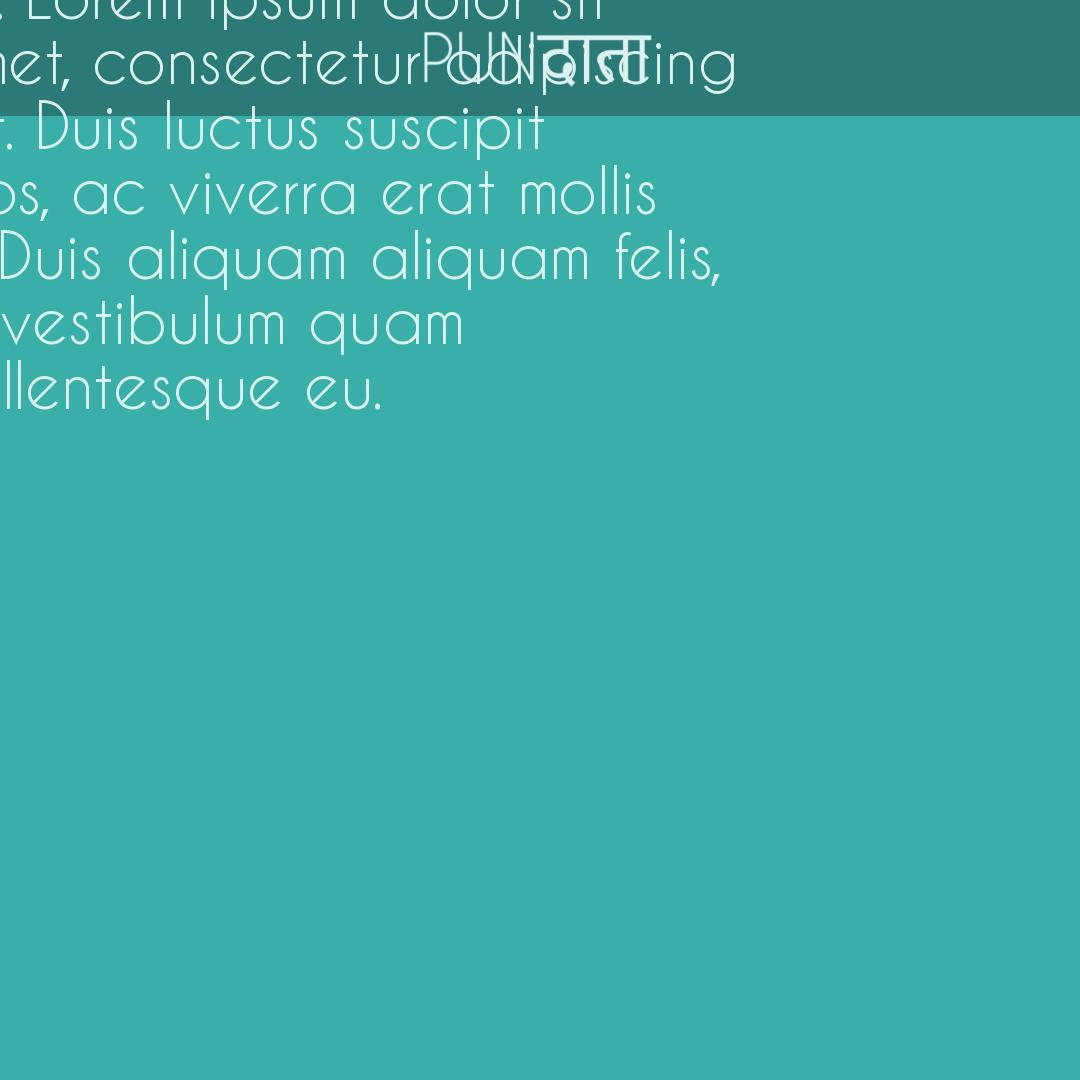
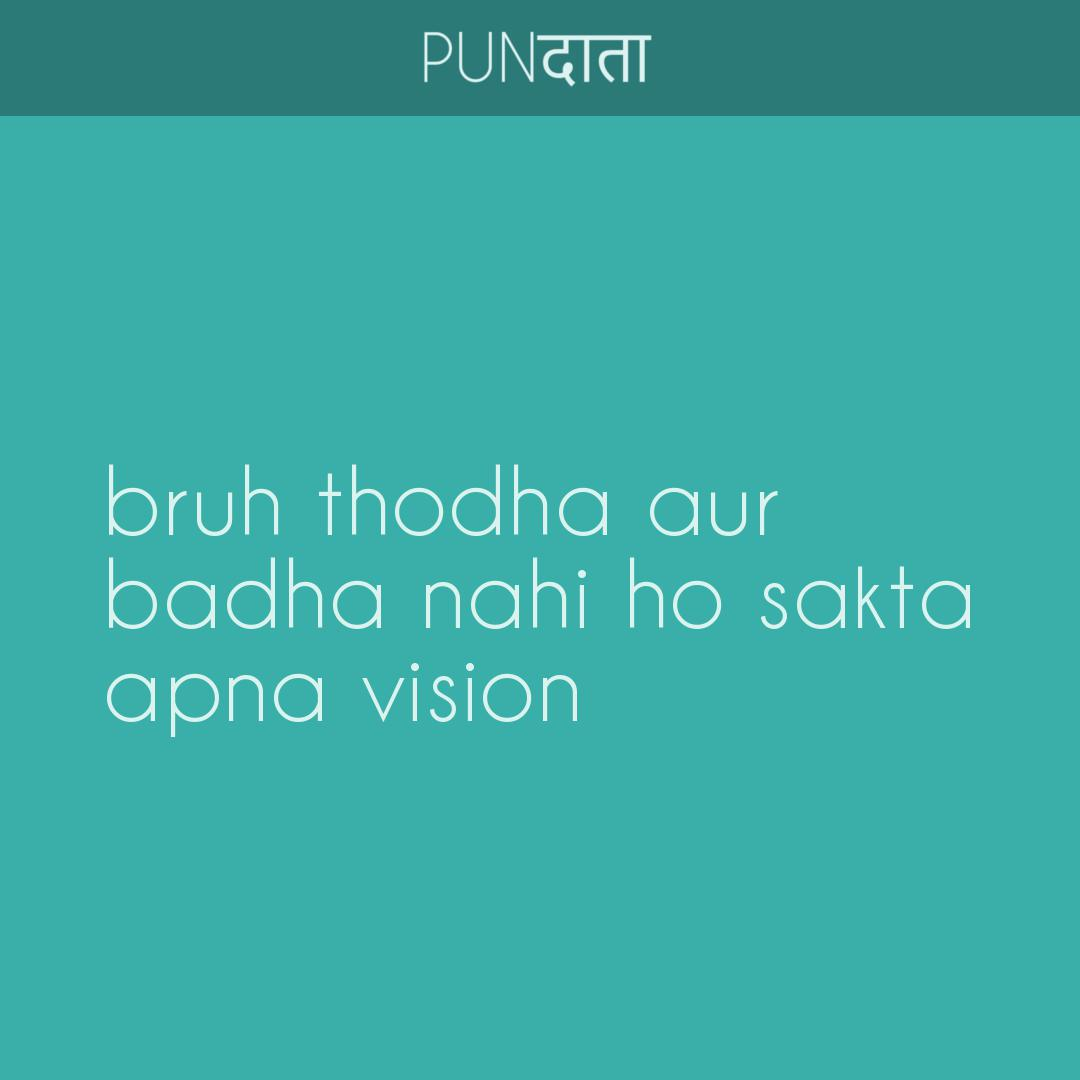
finally a working version

diff --git a/rewrite.py b/rewrite.py
@@ -2,23 +2,33 @@ from PIL import Image, ImageFont, ImageDraw
 from textwrap import TextWrapper
 
 #Initialising some variables
-wrapper = TextWrapper(width = 30)
+wrapper = TextWrapper(width = 20)
 img = Image.open("src/template.jpg")
 draw = ImageDraw.Draw(img)
-selected_font = ImageFont.truetype("src/CaviarDreams.ttf", size = 10)
+fontsize = 10
+selected_font = ImageFont.truetype("src/CaviarDreams.ttf", size = fontsize)
+text_box_width, text_box_height = 0, 0
 
 #Get the input text and wrap it 
 print("Enter the text to be input - ")
 input_text = input()
 beautiful_text = wrapper.fill(input_text)
 
+####################################################################################################
+#In the following code, note that wrapper.width is a mutable attribute of the object wrapper, whereas
+#selected_font.size is NOT mutable, it can only return the current size. 
+#Thus, the font has to be reconstructed with a new size each time.
+####################################################################################################
+
 #Increase the font size till the text is just a little too wide
 while selected_font.getsize_multiline(beautiful_text)[0] < (0.8 * img.size[0]):
-    selected_font.size += 2
+    fontsize += 2
+    selected_font = ImageFont.truetype("src/CaviarDreams.ttf", size = fontsize)
 
 #If the text is too long, reduce the font size a little...
 while selected_font.getsize_multiline(beautiful_text)[1] > (0.7 * img.size[1]):
-    selected_font.size -= 2
+    fontsize -= 2
+    selected_font = ImageFont.truetype("src/CaviarDreams.ttf", size = fontsize)
     #..and then increase the number of characters per line till it's wide enough...
     while selected_font.getsize_multiline(beautiful_text)[0] < (0.8 * img.size[0]):
         wrapper.width += 2
@@ -26,14 +36,15 @@ while selected_font.getsize_multiline(beautiful_text)[1] > (0.7 * img.size[1]):
     #...rewrap the text, test again, and keep repeating till it sits well
 
 #Position the x and y coordinates to draw the text so as to have it centered
-x_begin, y_begin = img.size[0]/2 , img.size[1]/2
+x_begin, y_begin = img.size[0]/2 , img.size[1]/1.85
 x_begin -= selected_font.getsize_multiline(beautiful_text)[0]/2
 y_begin -= selected_font.getsize_multiline(beautiful_text)[1]/2
 
+#Finally, draw the text to the template
 draw.text(
             (x_begin, y_begin),        
             beautiful_text,             
-            (218, 243, 239),          
+            (218, 243, 239),        #RGB values for the text color
             font = selected_font     
         )
 img.save("output.jpg")
